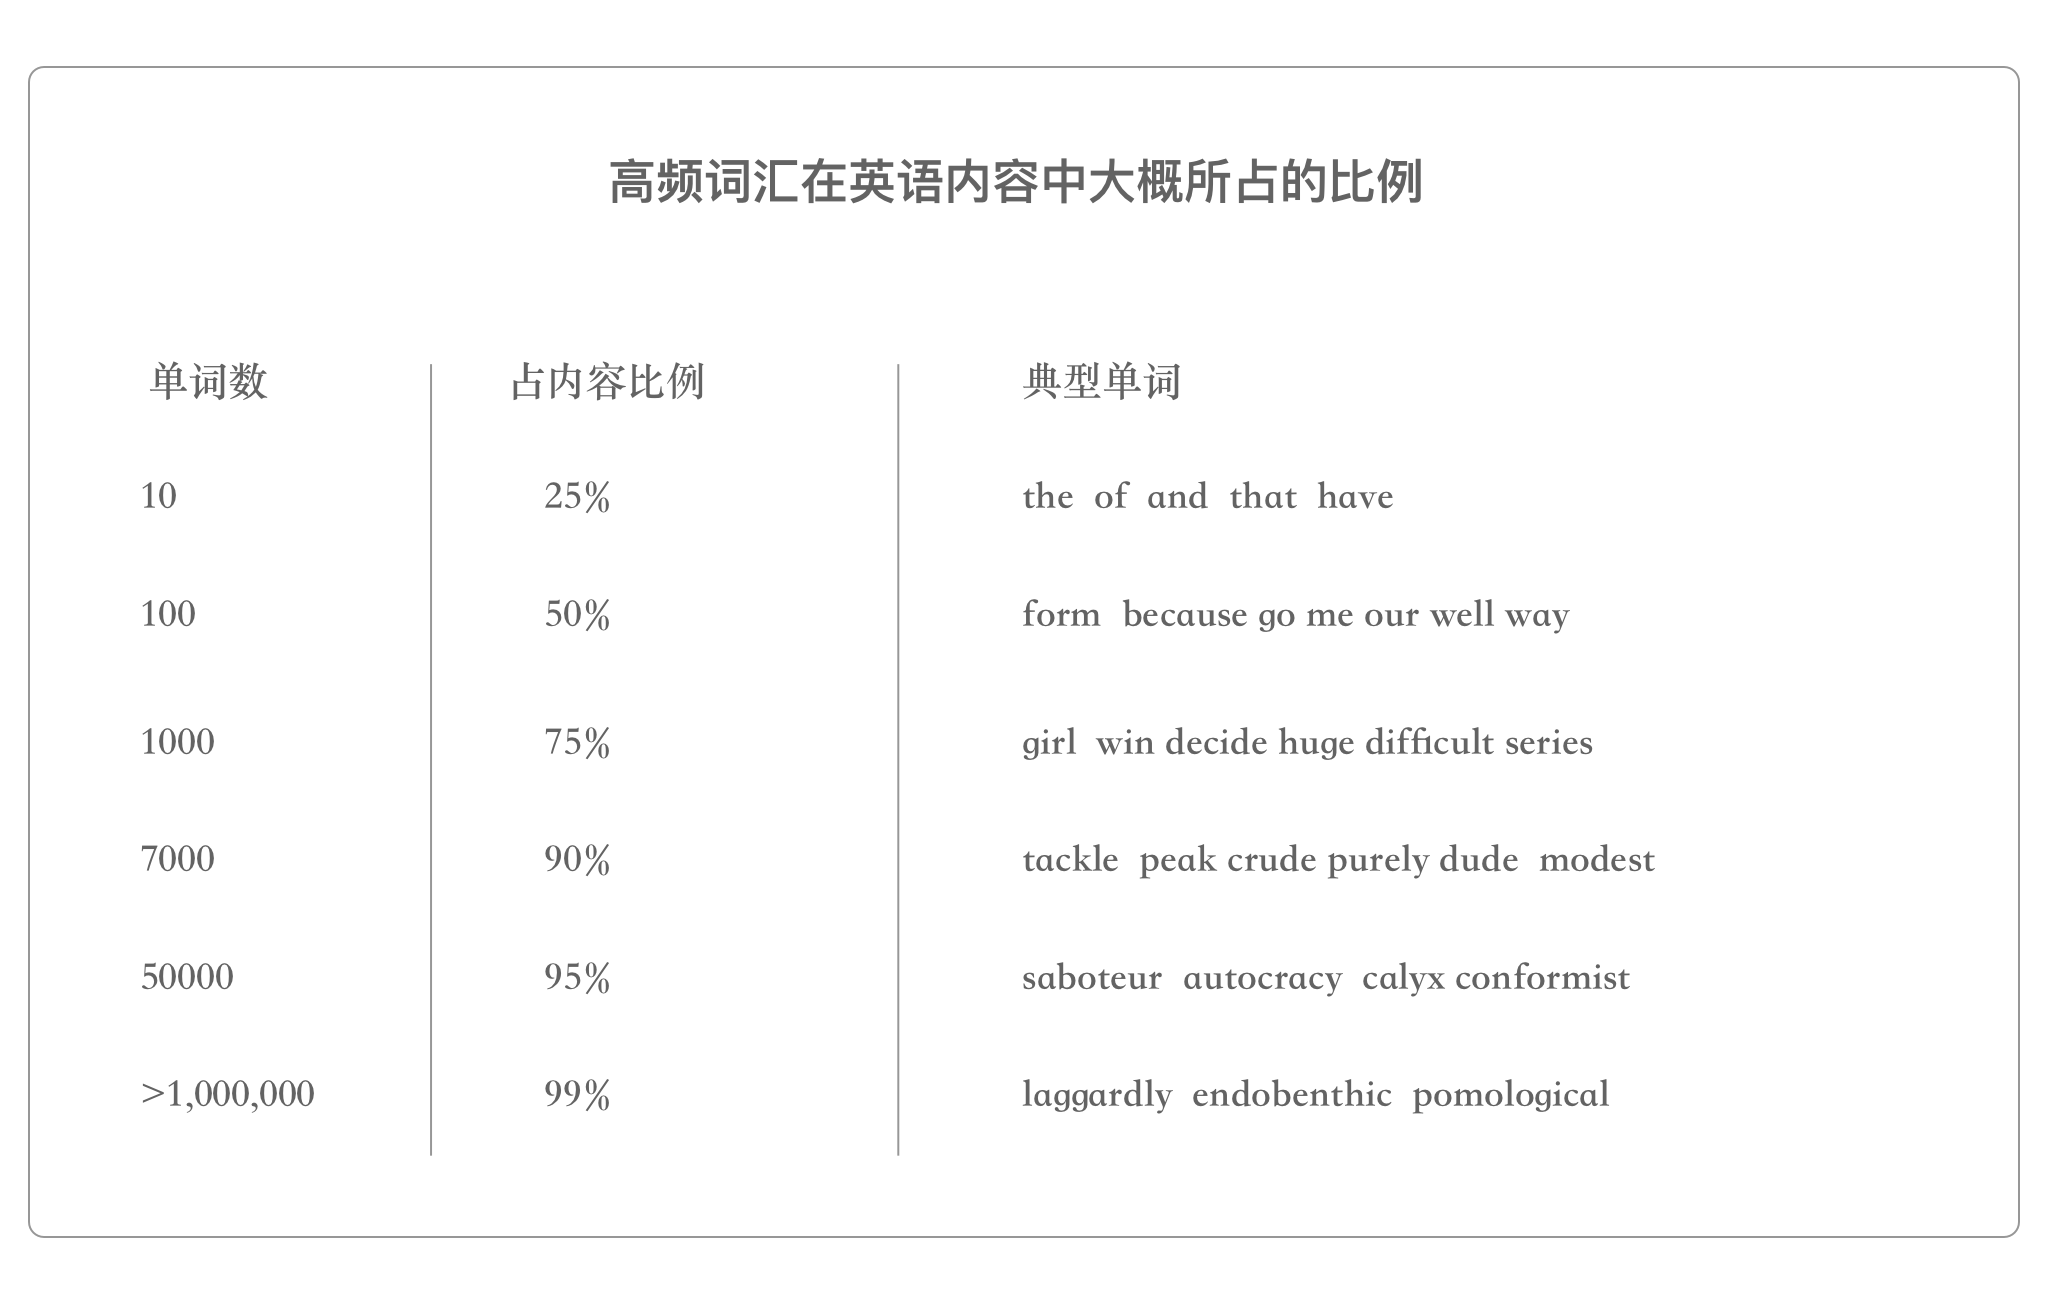
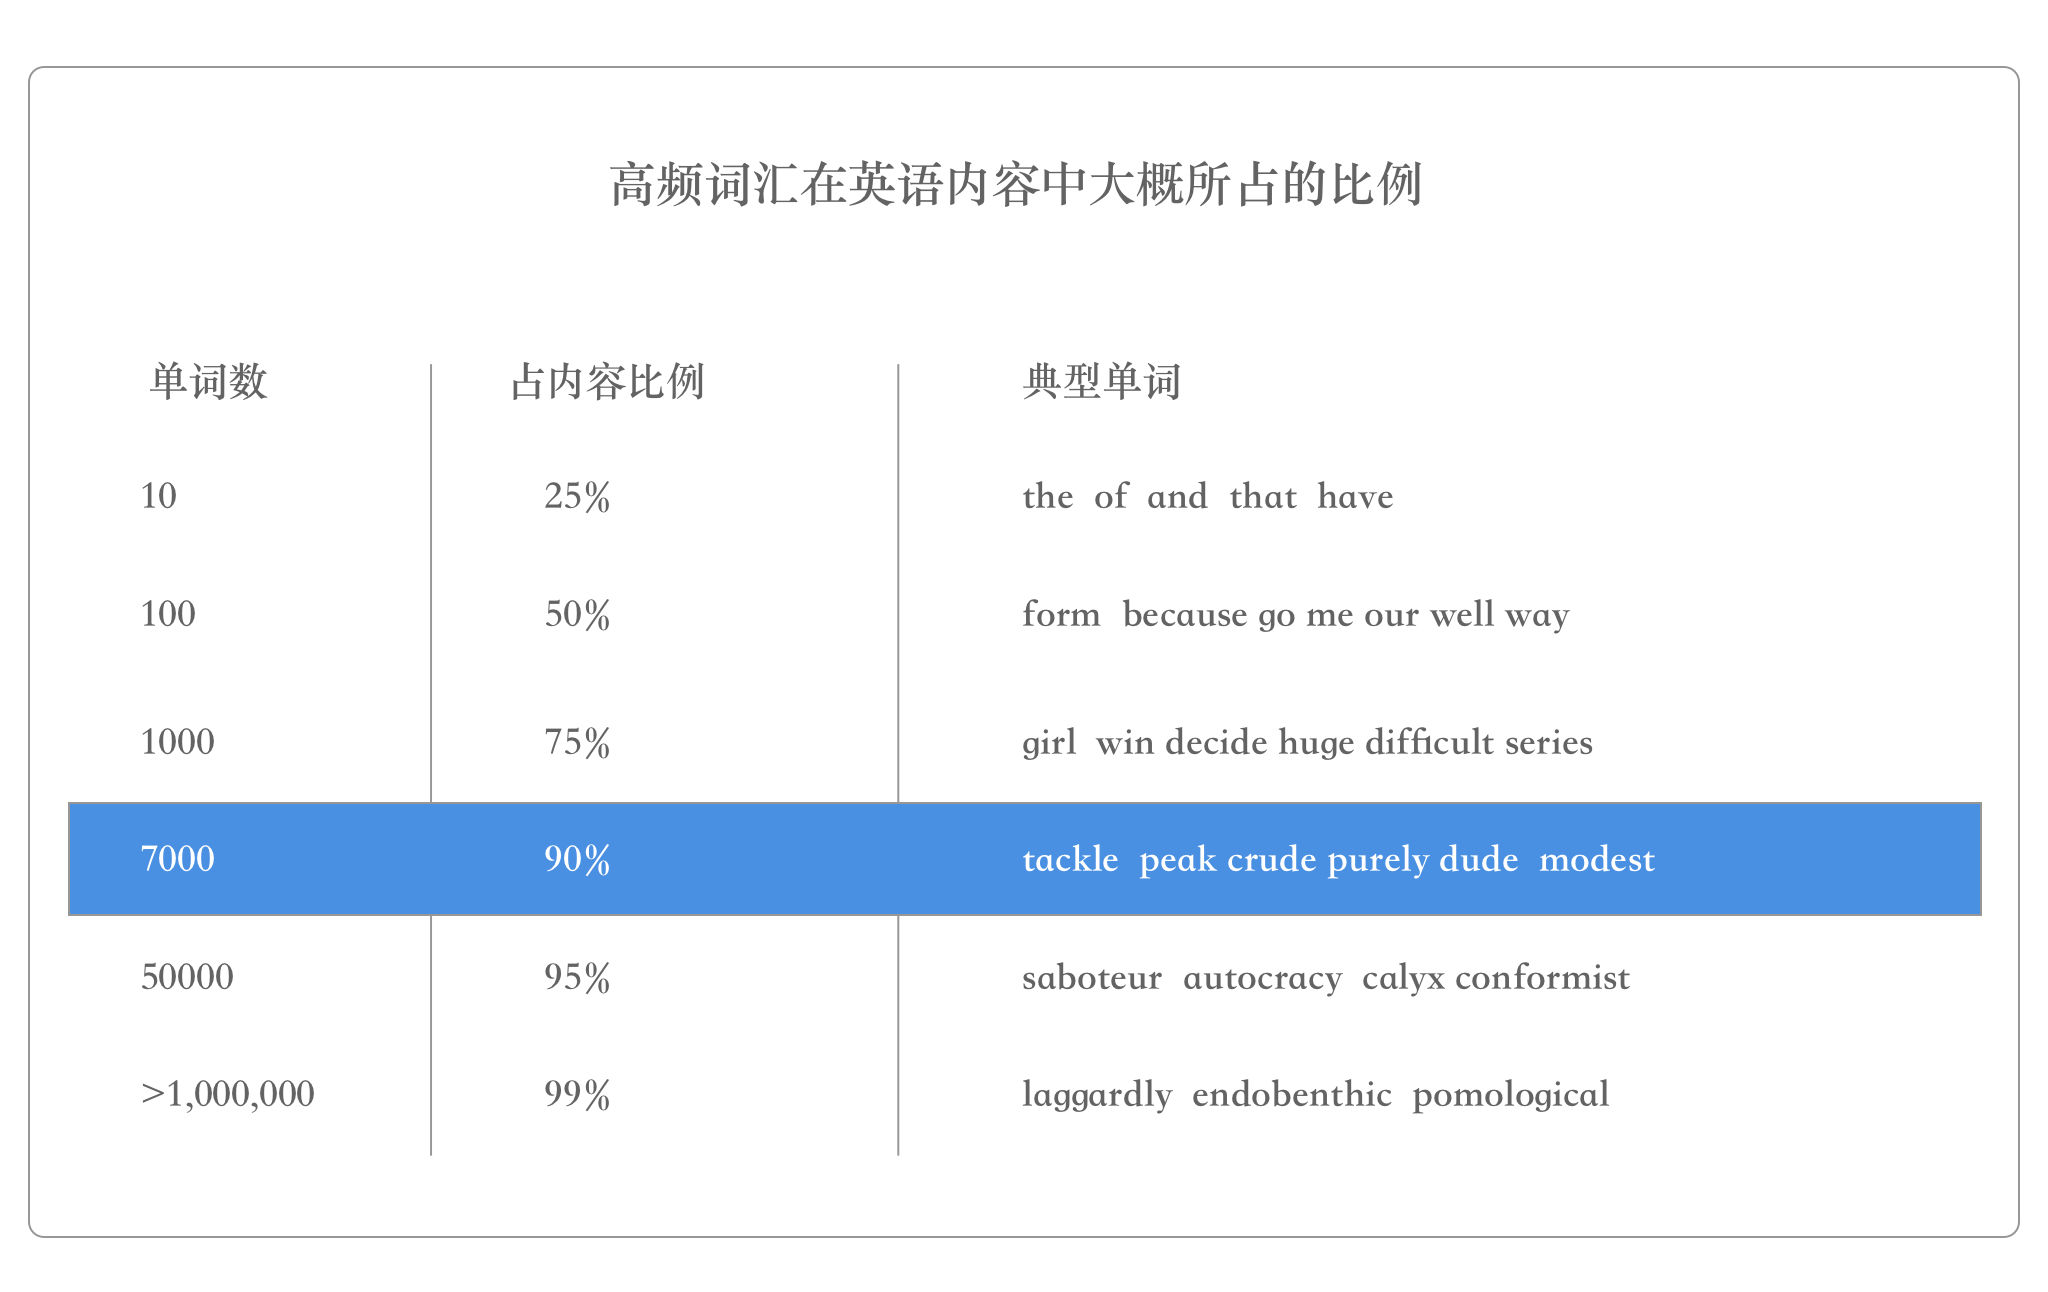
优化高频词汇示意图

Changed region(s): [[0.0312, 0.6192, 0.9688, 0.7121], [0.2812, 0.1238, 0.6875, 0.1548]]

diff --git a/README.md b/README.md
@@ -27,16 +27,17 @@
 
 
 ## 单词篇
-**词汇量具有从量变到质变的显著特征，当你掌握的单词数量达到一个分水岭的量之后你会发现学习英语变得异常轻松起来：得益于语境的帮助，你可以推断出大部分生词的意思，从而可以利用更优秀的原版英语学习材料让学英语如虎添翼，比如：经济学人，英文原著**。
+**词汇量具有从量变到质变的显著特征，当你掌握的单词数量达到一个分水岭的量之后你会发现学习英语变得异常轻松起来。
+得益于语境的帮助，你可以推断出大部分生词的意思，从而可以利用更优秀的原版英语学习材料让学英语如虎添翼，比如：经济学人，英文原著**。
 首先来看看一下英语单词的分布：
 
-![OCE Artboard@2x.png](https://ooo.0o0.ooo/2017/06/05/5934beb126bbb.png)
+![OCE Artboard@2x.png](https://ooo.0o0.ooo/2017/06/05/5934cf631b5d0.png)
 
 >原图片来源于牛津英文语料库（OEC），我用sketch对照着做了一份，sketch文件在repo的 assets 文件夹内
 
 从这张图可以得出的简单信息是：
 - 1000词汇量就能让你理解约75%的英语内容
-- 7000词汇量是一个关键的分水岭
+- 7000词汇量是一个关键的分水岭（只需7千单词就能理解接近90%的内容是不是很激动？）
 - 背单词的回报率是递减的
 
 那就先定个小目标：先试试7000个单词。拆解一下，每天40个，在不遗忘的理想情况下只需要175天！
